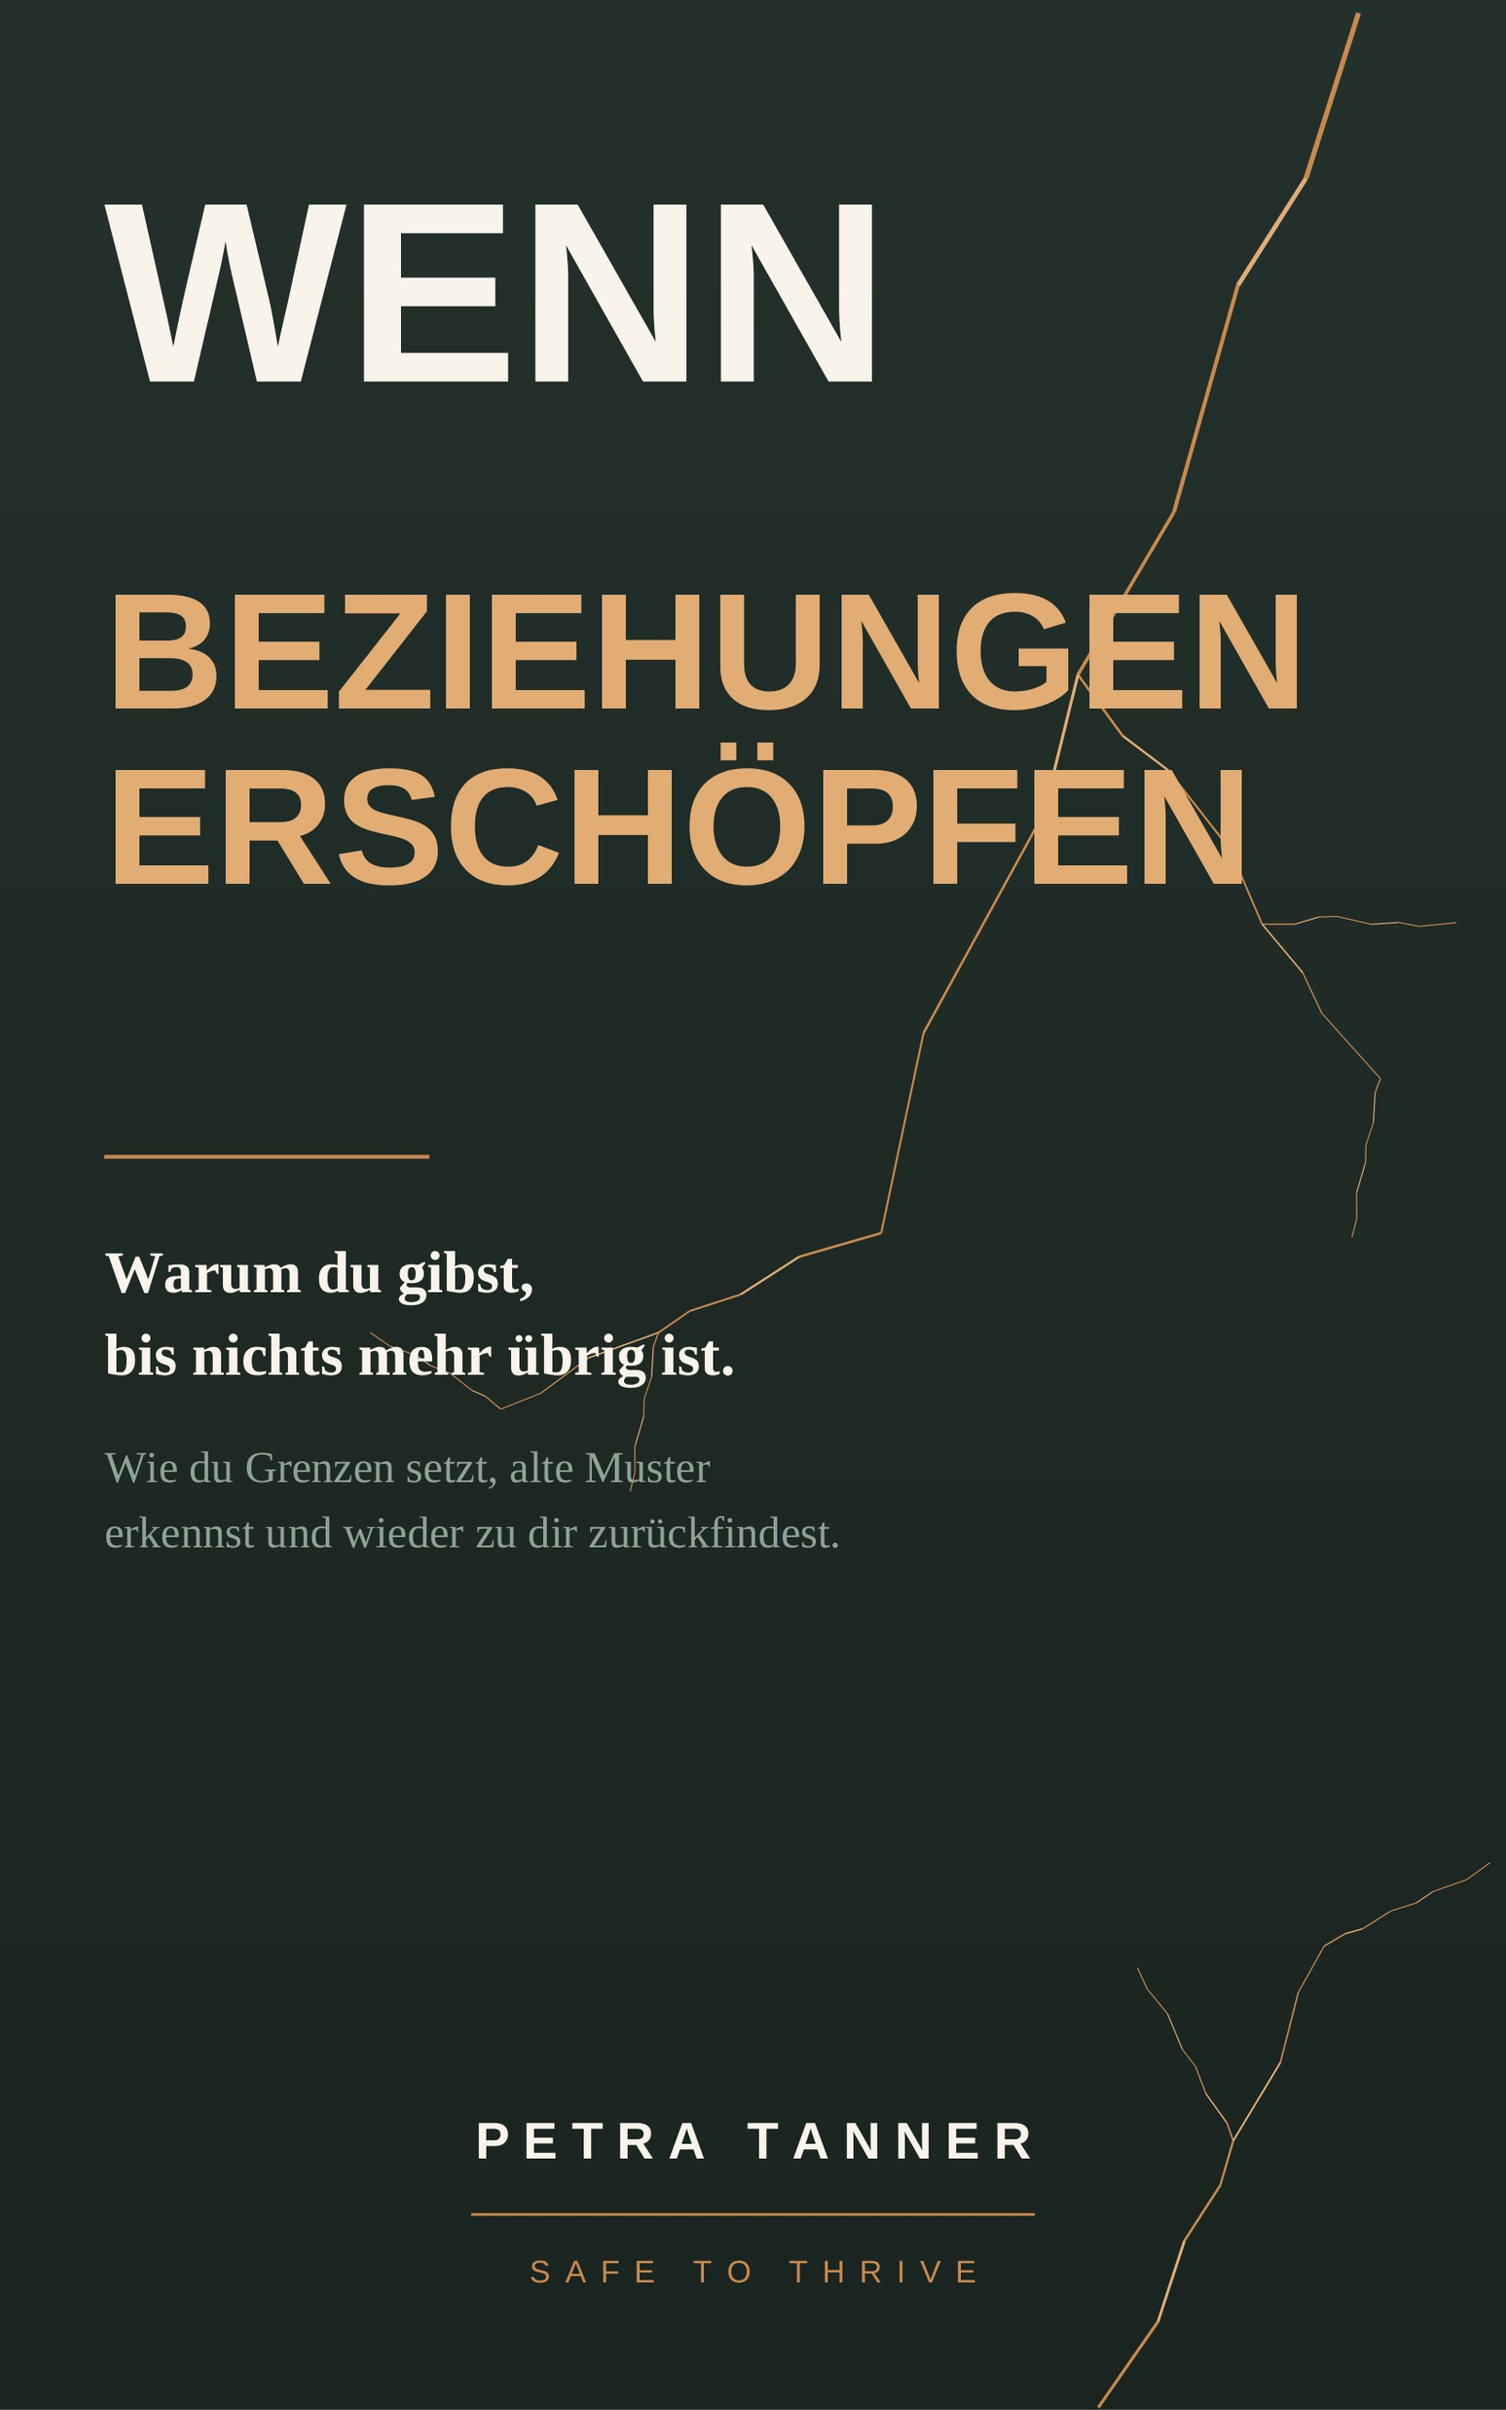
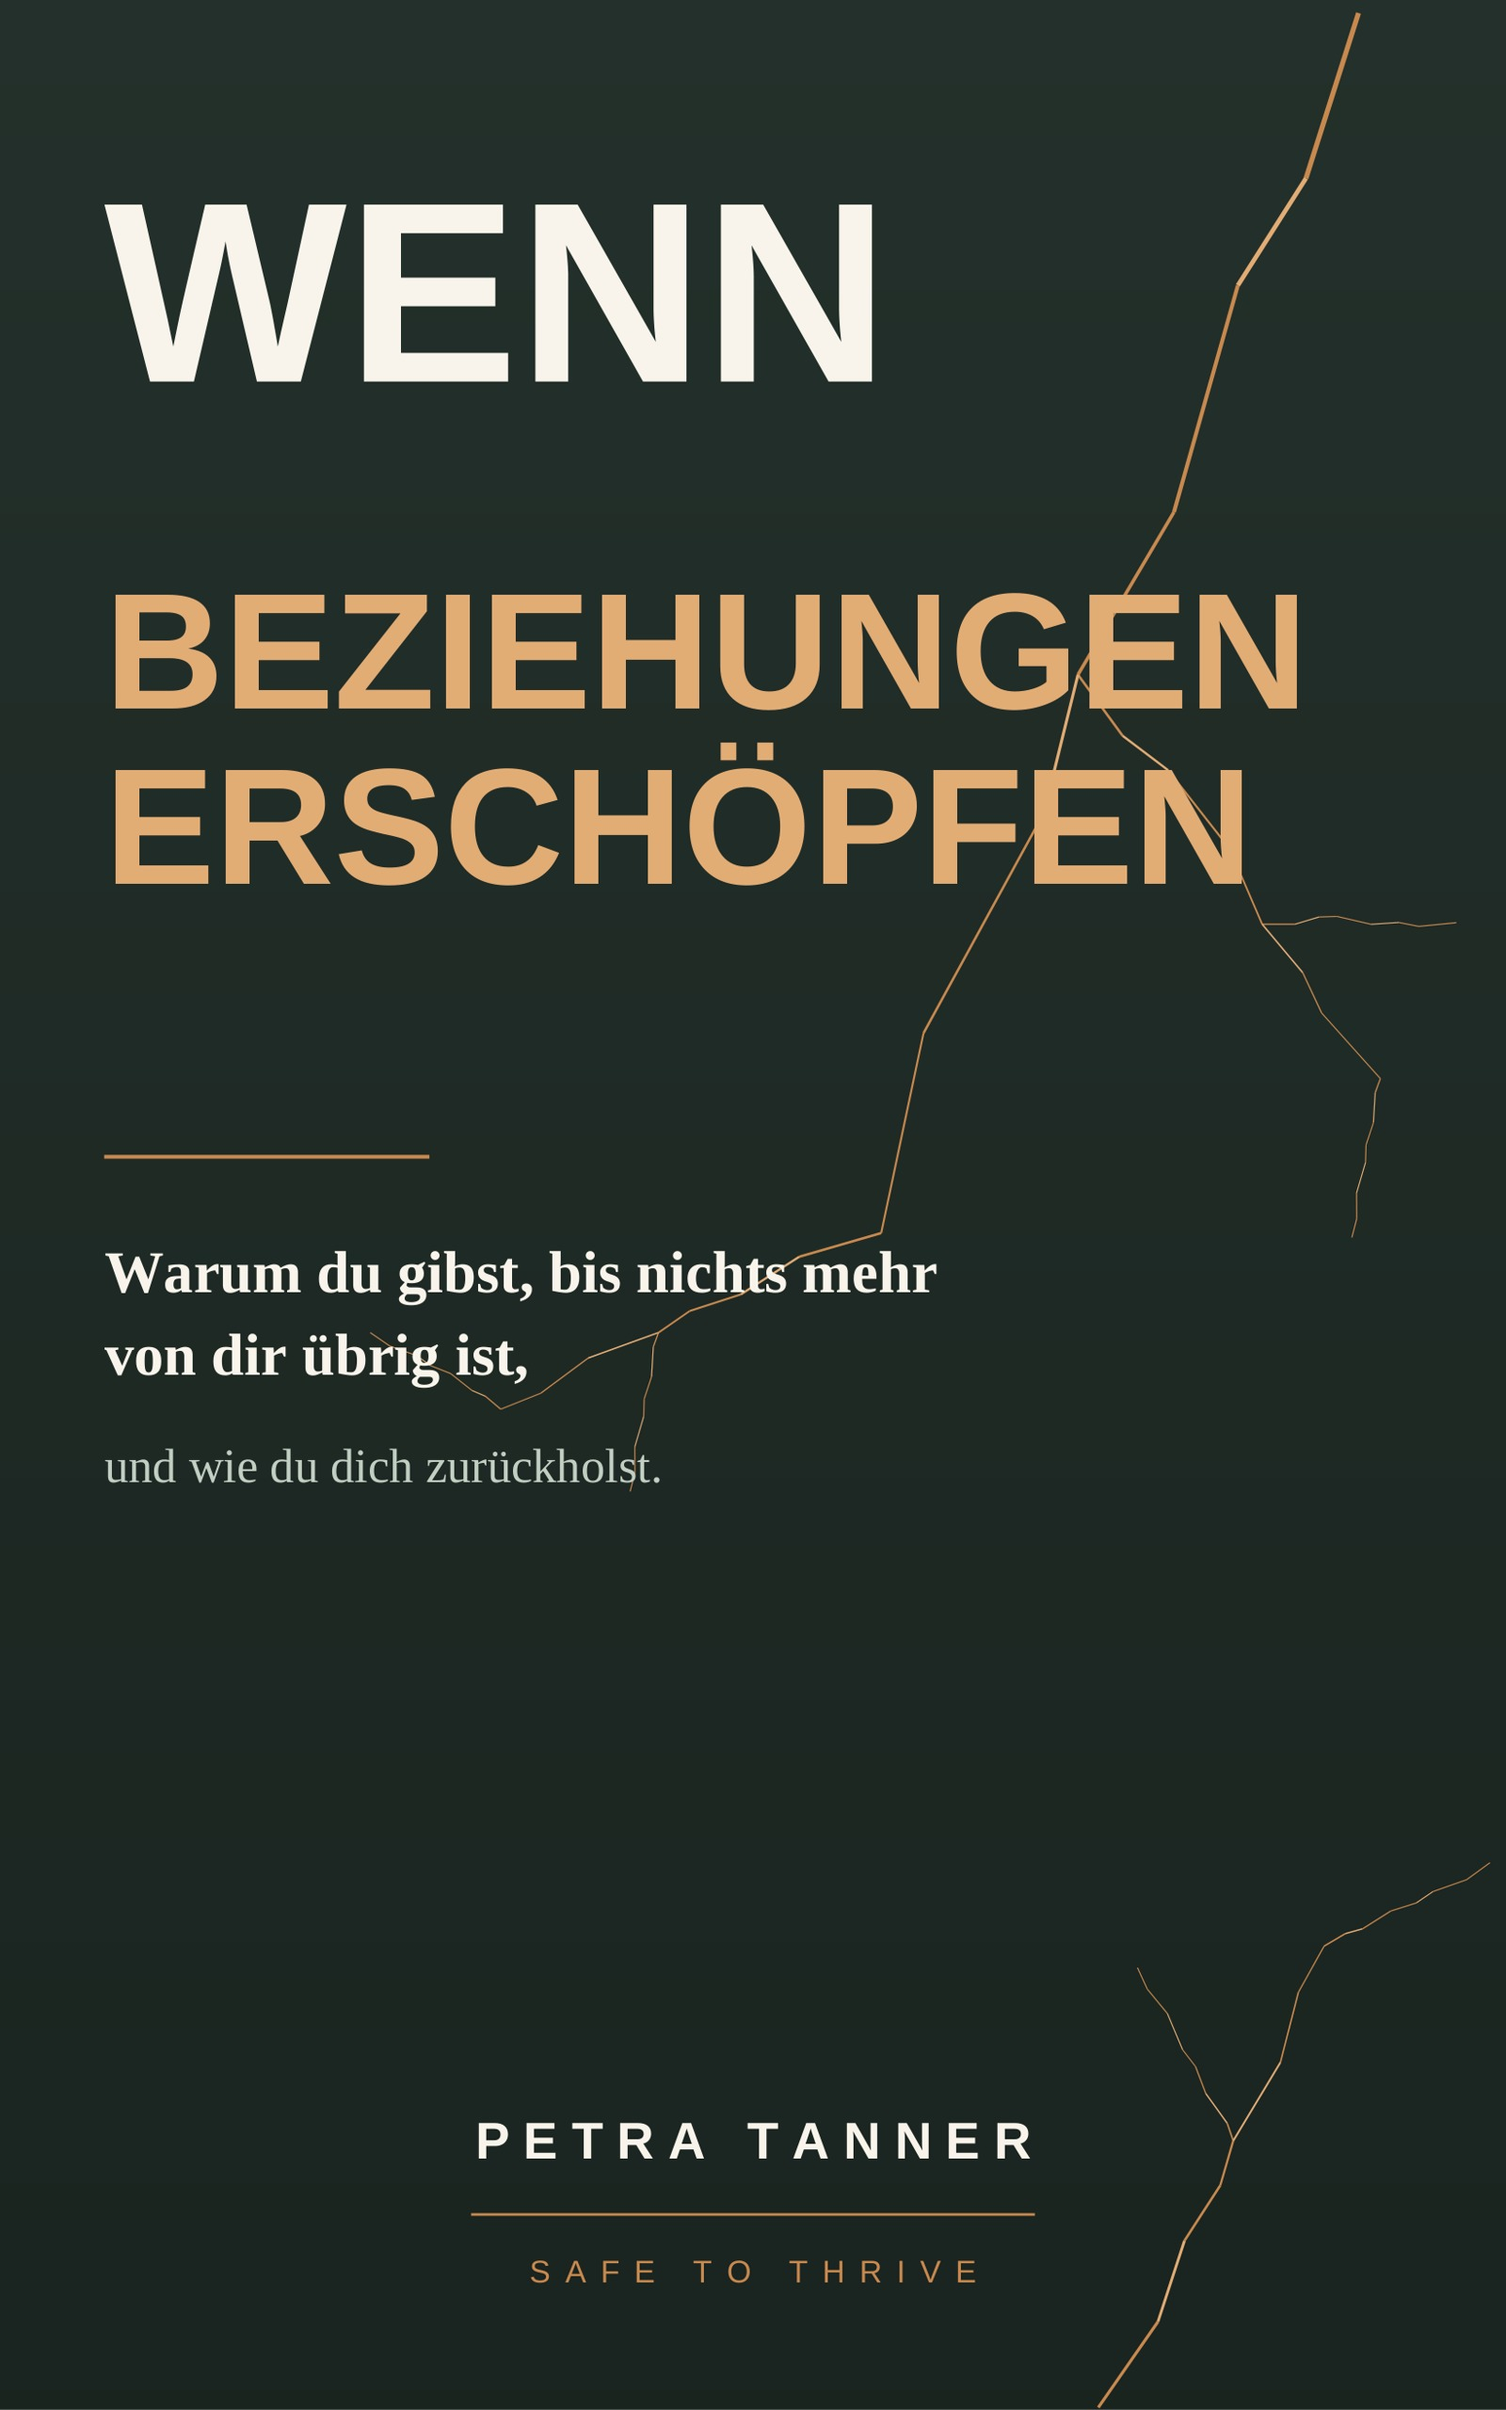
Wenn Beziehungen erschoepfen Cover: falschen Untertitel korrigiert
Petra hat zurecht bemaengelt, dass das Cover nicht zum Buch passte: der
Untertitel auf dem Cover war eine erfundene Umschreibung ("Wie du Grenzen
setzt, alte Muster erkennst..."), nicht der tatsaechliche Buchuntertitel.
Jetzt exakt der echte Untertitel von der Manuskript-Titelseite: "Warum du
gibst, bis nichts mehr von dir uebrig ist, und wie du dich zurueckholst."

Dabei auch den Kontrast der Salbei-Akzentfarbe nachgemessen und erhoeht
(vorher 5.96:1, jetzt 9.88:1 gegen den dunklen Hintergrund).

eBook-Cover passend neu gebaut.

Claude-Session: https://claude.ai/code/session_011oFtWvyjvkDdc6K2GcSXHx

Changed region(s): [[0.0625, 0.5, 0.625, 0.6562]]

diff --git a/tools/buch3-cover.py b/tools/buch3-cover.py
@@ -37,7 +37,7 @@ TIEFE  = colors.HexColor('#121916')
 CREME  = colors.HexColor('#FAF5EC')
 KUPFER = colors.HexColor('#C98A4F')
 KUPF_H = colors.HexColor('#E3AD75')
-SALBEI = colors.HexColor('#8FA396')
+SALBEI = colors.HexColor('#C2CFC3')
 GRAU   = colors.HexColor('#9A9389')
 
 # ─── Schriften ──────────────────────────────────────────────────────────────
@@ -165,12 +165,12 @@ c.setStrokeColor(KUPFER); c.setLineWidth(1.0)
 c.line(fx, ty, fx + 30 * mm, ty)
 
 ty -= 12.5 * mm
-block(fx, ty, ['Warum du gibst,', 'bis nichts mehr übrig ist.'],
+block(fx, ty, ['Warum du gibst, bis nichts mehr',
+               'von dir übrig ist,'],
       'SerifB', 15.5, CREME, 7.6 * mm)
 ty -= 17.5 * mm
-block(fx, ty, ['Wie du Grenzen setzt, alte Muster',
-               'erkennst und wieder zu dir zurückfindest.'],
-      'Serif', 11.6, SALBEI, 6.0 * mm)
+block(fx, ty, ['und wie du dich zurückholst.'],
+      'Serif', 12.6, SALBEI, 6.0 * mm)
 
 sy = BLEED + 20 * mm
 gesperrt(fm, sy, 'PETRA TANNER', 'SansB', 13.5, CREME, 3.6, mitte=True)
